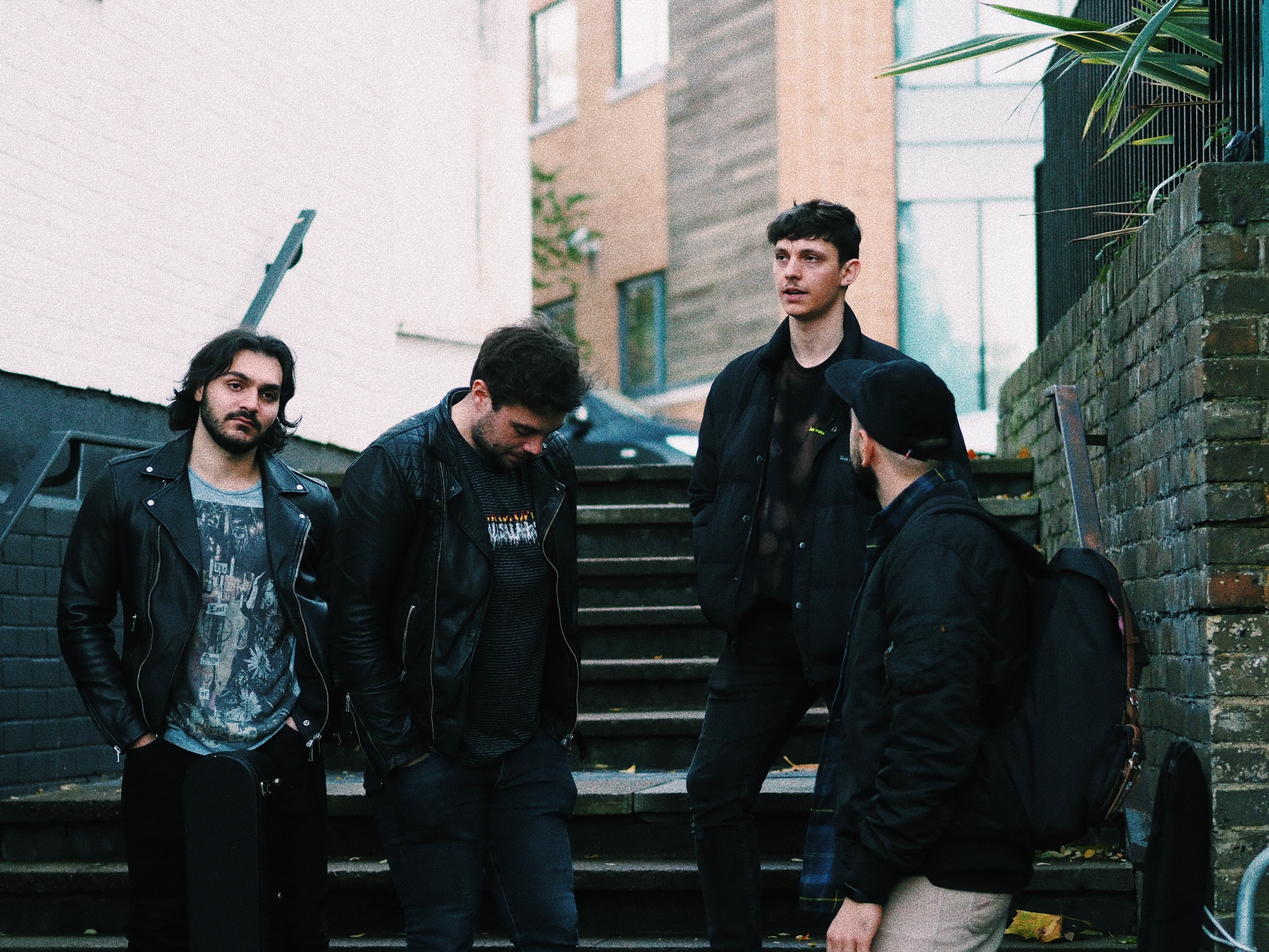
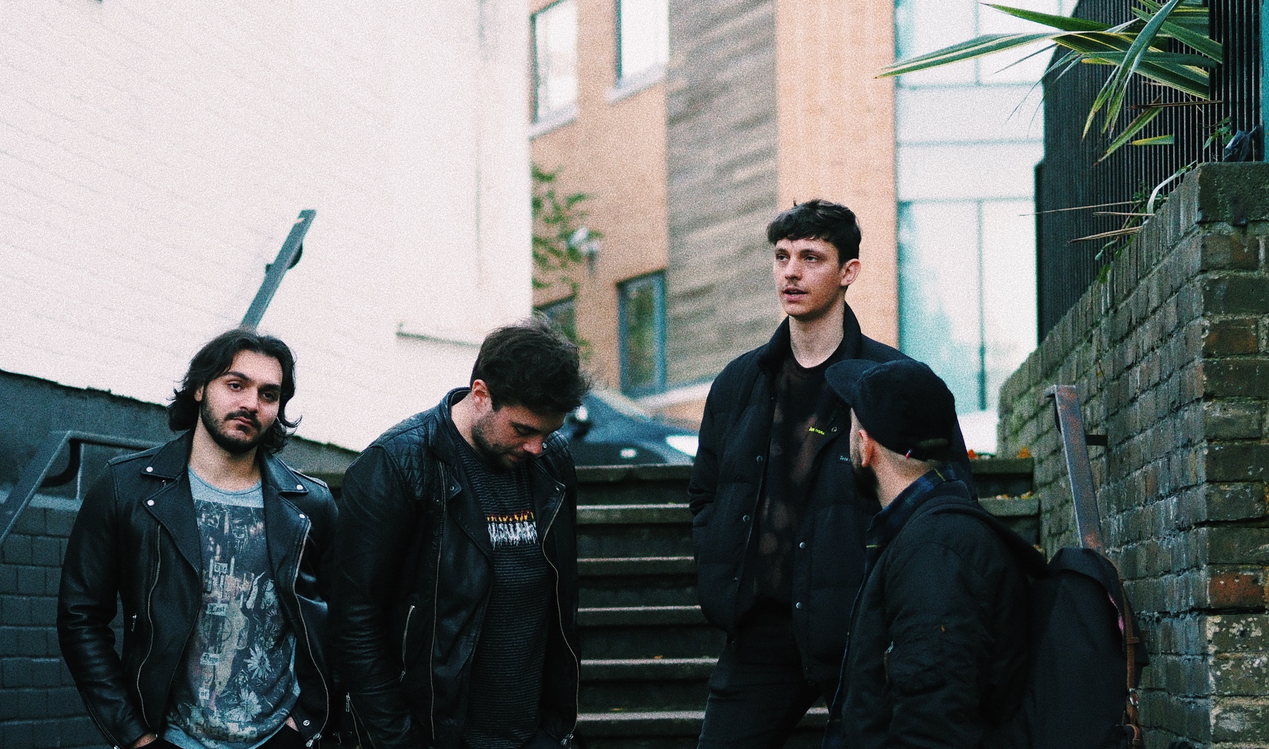
fixed bg

diff --git a/_includes/css/grayscale.css b/_includes/css/grayscale.css
@@ -142,7 +142,7 @@ a:focus {
     background-color: {{ site.color.primary-dark }};
     -webkit-background-size: cover;
     -moz-background-size: cover;
-    background-size: fixed;
+    background-size: cover;
     -o-background-size: cover;
 }
 
